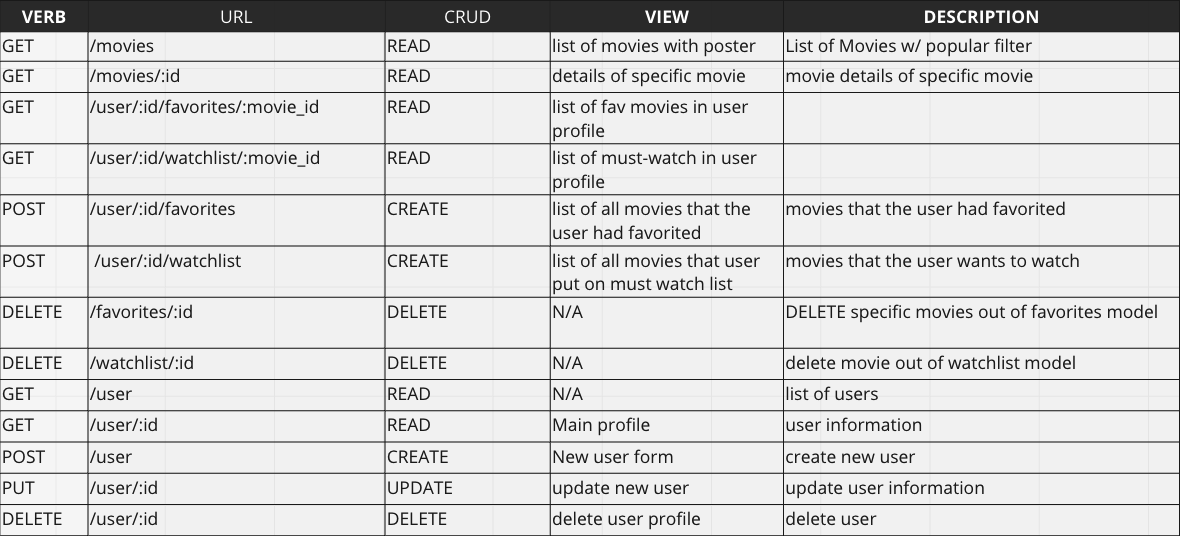
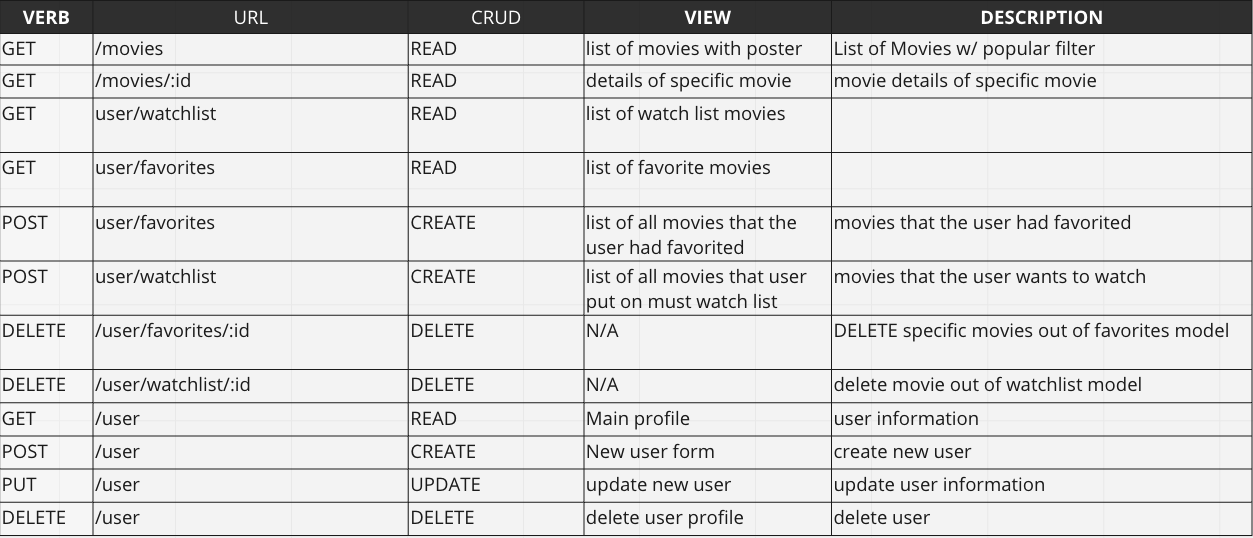
Updated Readme with modified information

Changed region(s): [[0.0, 0.0, 1.0, 1.0]]

diff --git a/README.md b/README.md
@@ -35,24 +35,39 @@ Open the app in your browser:
  - Express
  - TMDb API
 
- ## User Story
+## User Story
 
-- As a movie enthusiast, I want to be able to search for a specific movie by its title so I can quickly find it and add it to my favorites.
+- As a user, I want to be able to search for a specific movie by its title so I can quickly find it and add it to my favorites.
 - As a user, I want to be able to add a movie to my watchlist so that I can remember to watch it later
 - As a user, I want to be able to see a list of my favorite movies so that I can quickly access them.
 - As a user, I want to be able to delete a movie from my watch or favorite list if I change it
-- As a user I want to be able to move movies between lists
-- As a user I want to have a secure login to my information and lists
-- As a movie enthusiast I want to have imagery attached to the movies I am watching
-- As a movie enthusiast I want to have all relevant information that includes release date, rating, genre, synopsis.
+- As a user, I want to be able to move movies between lists
+- As a user, I want to have a secure login to my information and lists
+- As a user, I want to have imagery attached to the movies I am watching
+- As a user, I want to have all relevant information that includes release date, rating, genre, synopsis
 
 ## CRUD
 
-![CRUD for the CineSearch](assets/ERD2.png)
+![CRUD for the CineSearch](assets/crud.png)
 
 ## ERD
 
-![ERD for the CineSearch](ERD.drawio.png)
+![ERD for the CineSearch](assets/ERD.png)
+
+## MVP 
+- Pull movie information from the TMDB API
+- Display movie information to the user
+- Display movie images and posters
+- Allow users to search for movies
+- Store a users favorite movies in a Mongo database
+- Display lists of popular movies to the user
+- Allow users to have a list of movies they want to watch
+
+## Stretch Goals or Minimum Marketable Product
+- Display streaming information with the movie details view
+- Ability to comment on movies
+- Ability to sort/filter by genre
+- Notifications if another user comments on a movie you have commented on
 
 ## Team Mavericks
 
